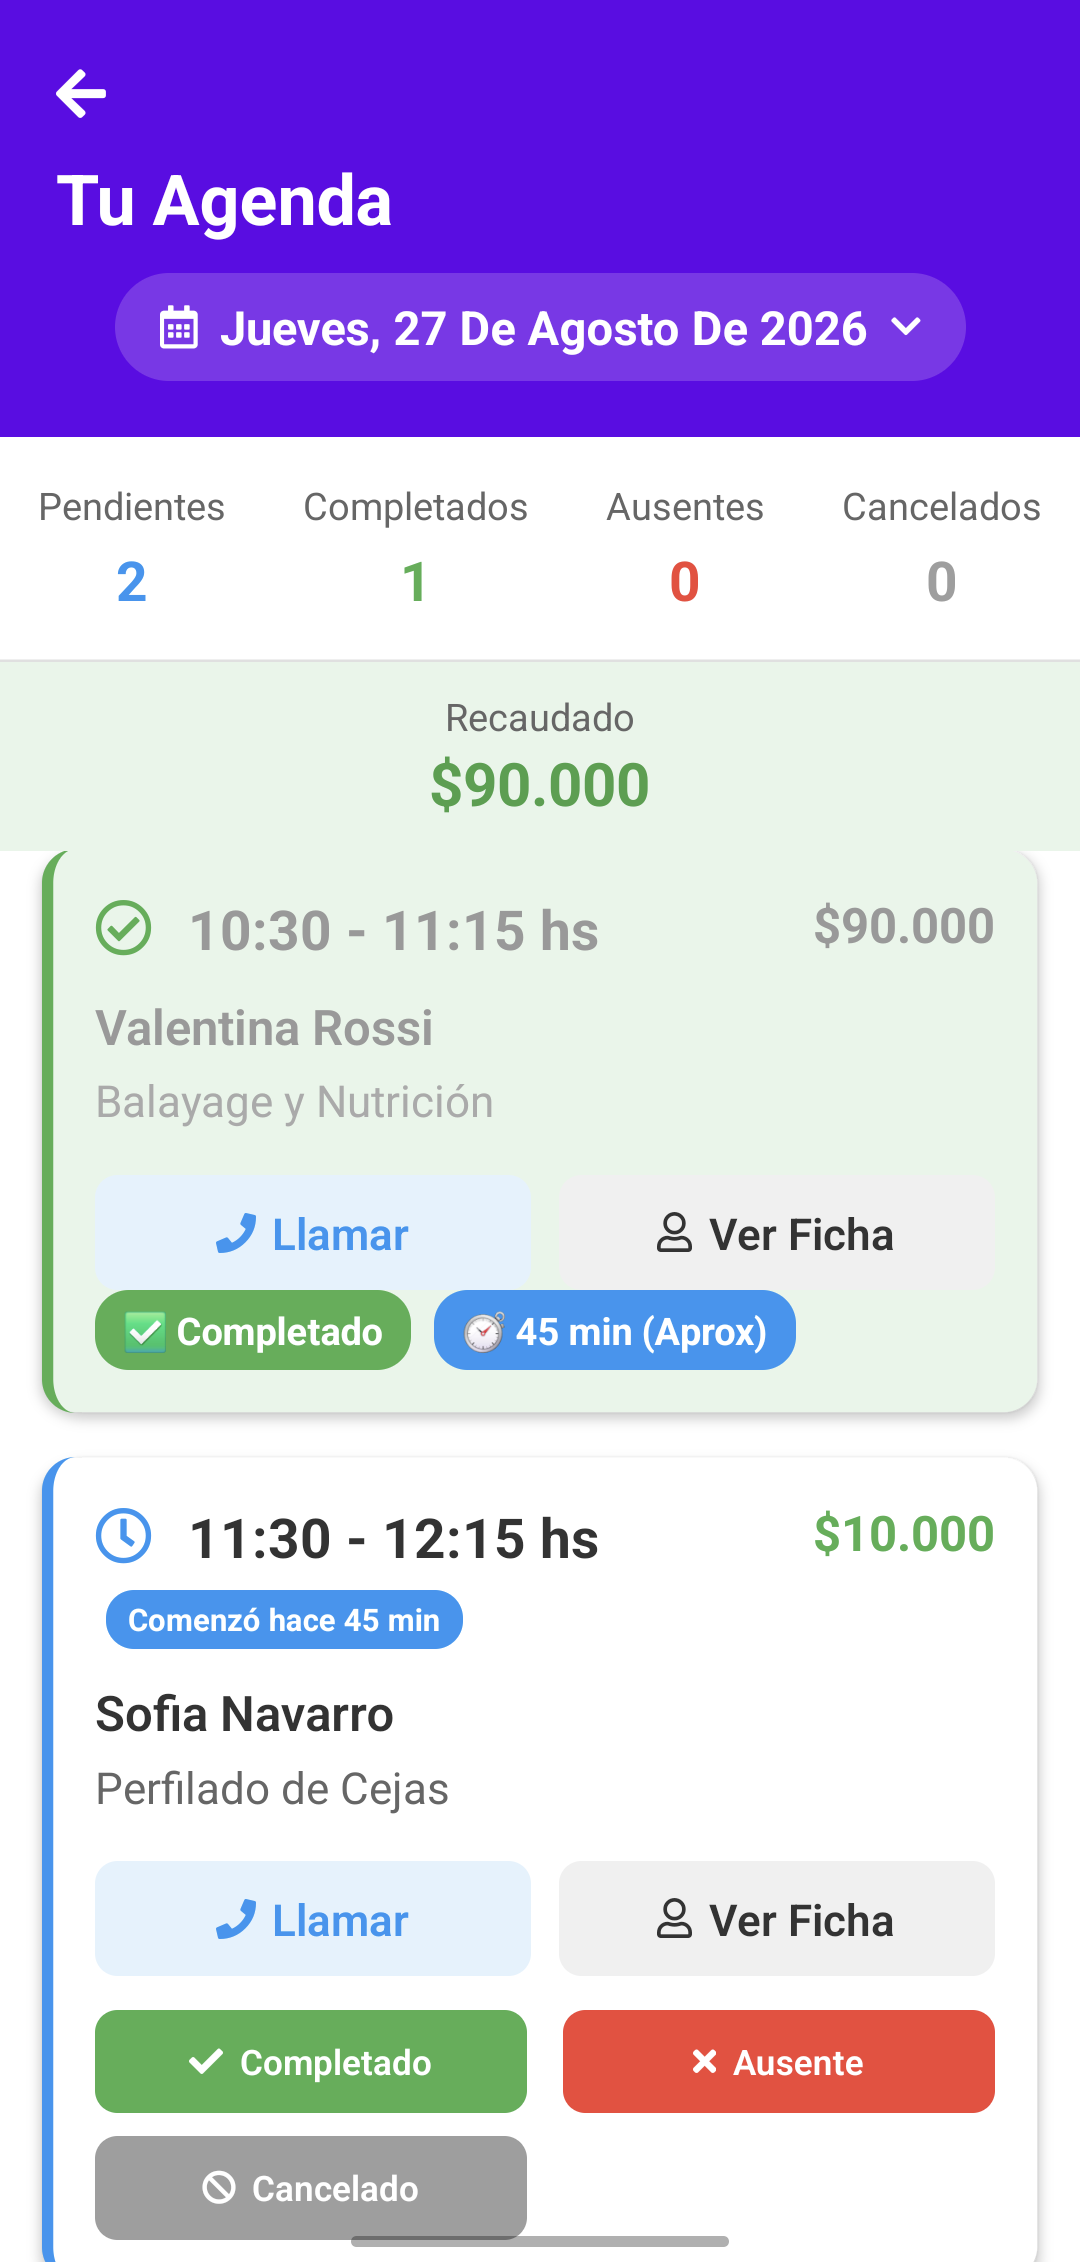
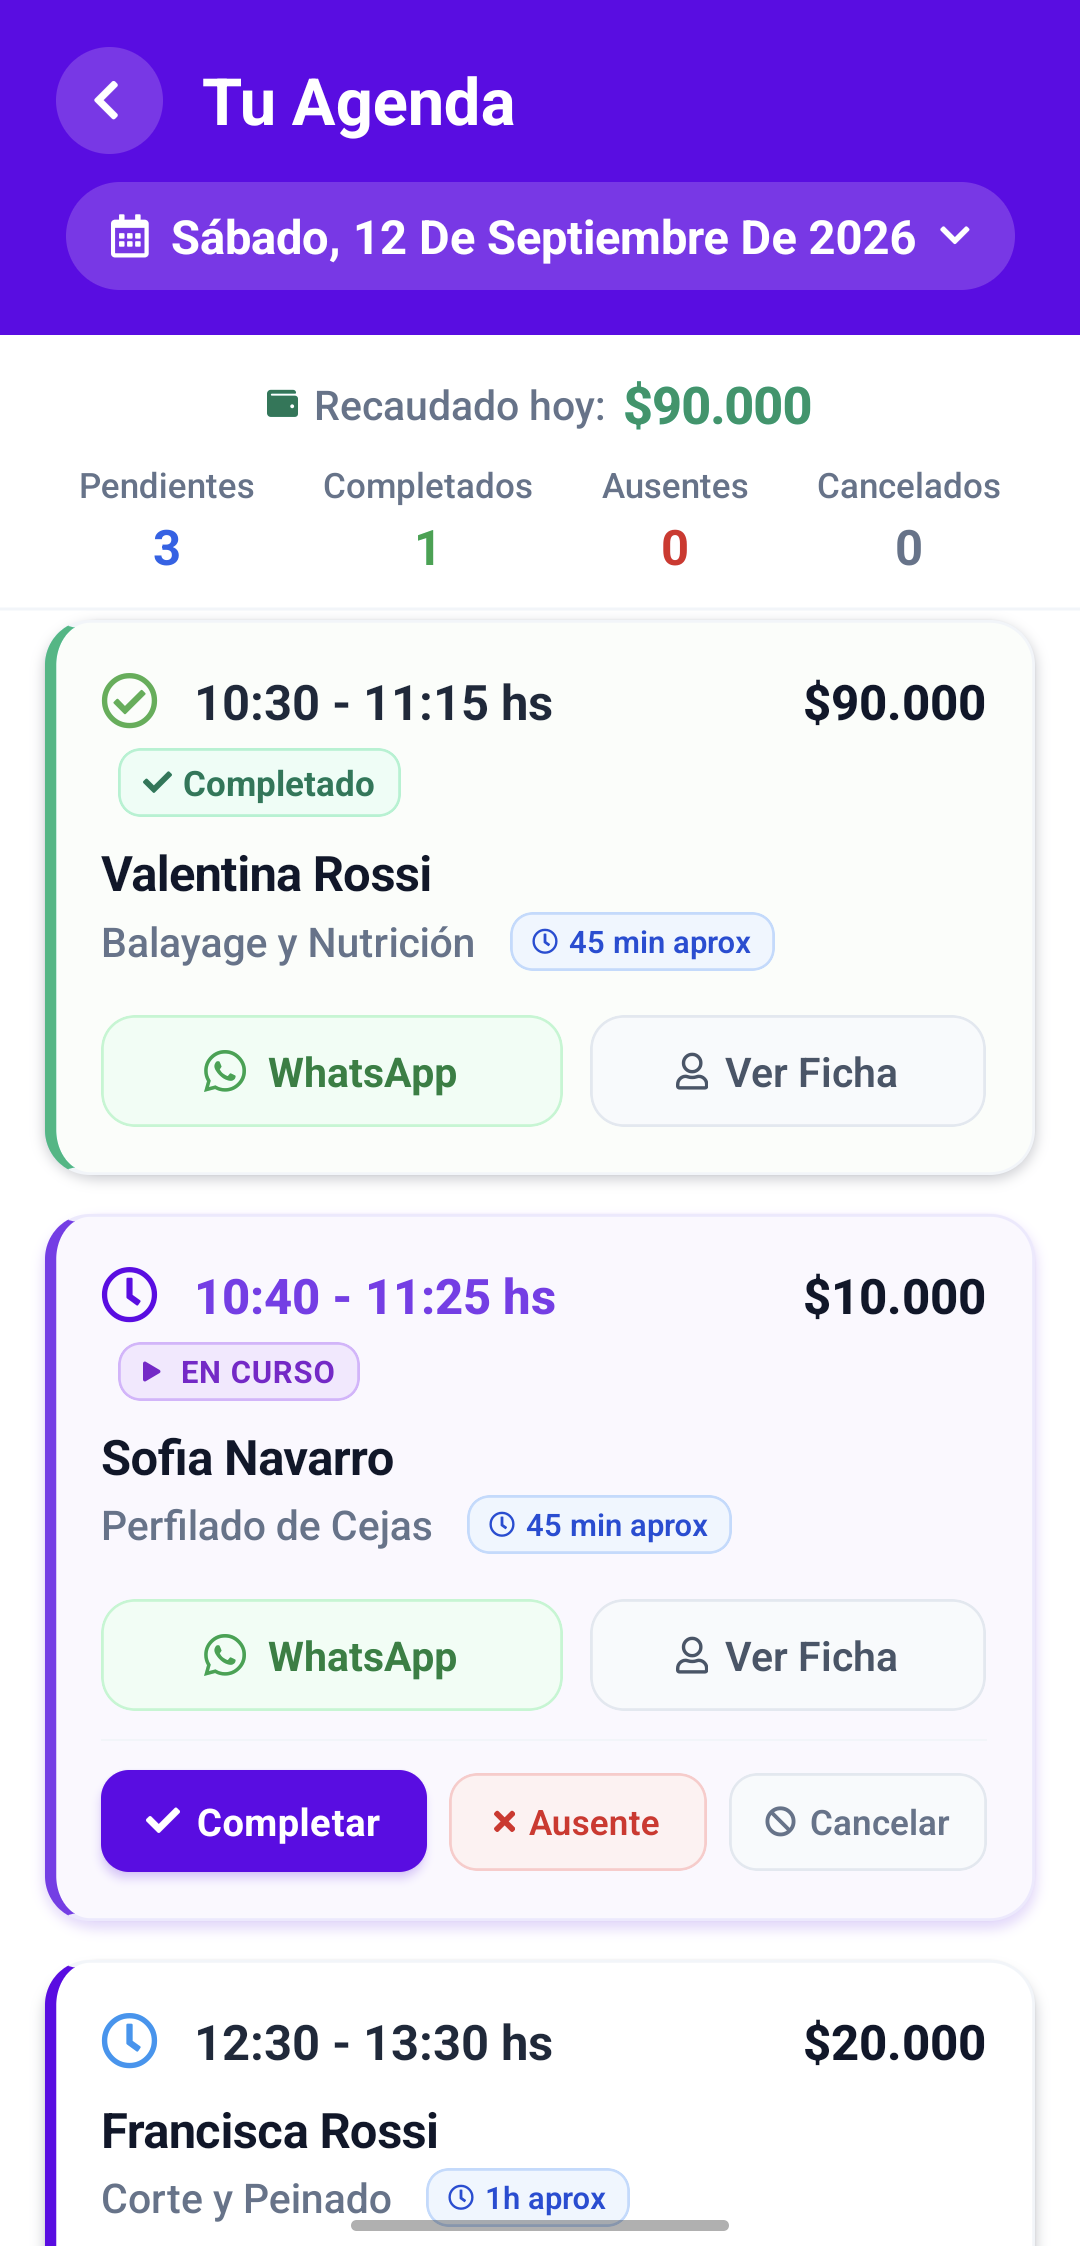
feat(ui): update VisuBook screenshots, refine hero copy and clean up UI lines

diff --git a/src/features/studies/components/CheckoutFlowDiagram.jsx b/src/features/studies/components/CheckoutFlowDiagram.jsx
@@ -107,13 +107,13 @@ const CheckoutFlowDiagram = () => {
                             <div className="relative flex items-center gap-3 group/step py-1">
                                 {/* Timeline Dot */}
                                 <div className="relative z-10 shrink-0 w-[31px] flex items-center justify-center">
-                                    <div className={`w-2.5 h-2.5 rounded-full ${step.colors.dot} ${step.colors.shadow} shadow-lg ring-[3px] ring-surface transition-all duration-300 group-hover/step:scale-125`} />
+                                    <div className={`w-2.5 h-2.5 rounded-full ${step.colors.dot} ring-[3px] ring-surface transition-all duration-300 group-hover/step:scale-125`} />
                                 </div>
 
                                 {/* Step Card */}
                                 <div className={`flex-1 flex items-center gap-3 p-2 sm:p-2.5 rounded-lg bg-surface/50 border ${step.colors.border} hover:bg-surface/80 transition-all duration-300 cursor-default`}>
-                                    <div className={`p-1.5 rounded-md bg-surface-lighter/80 shrink-0 ${step.colors.icon}`}>
-                                        <step.icon size={14} strokeWidth={2} />
+                                    <div className={`shrink-0 ${step.colors.icon} flex items-center justify-center`}>
+                                        <step.icon size={16} strokeWidth={2} />
                                     </div>
 
                                     <div className="flex-1 min-w-0">

diff --git a/src/features/hero/components/HeroTextLayer.jsx b/src/features/hero/components/HeroTextLayer.jsx
@@ -82,17 +82,6 @@ export const HeroTextLayer = ({ textVisible, textOpacity, isInteractive }) => {
                         {t('hero.cta.contact')}
                     </a>
                 </motion.div>
-
-                <motion.div variants={itemVariants} className="mt-4 pt-3 md:mt-10 md:pt-6 border-t border-text-secondary/10 flex flex-wrap justify-center md:justify-start gap-2 md:gap-3">
-                    {['React', 'Node.js', 'PostgreSQL', 'TypeScript'].map((tech) => (
-                        <span
-                            key={tech}
-                            className="px-2.5 py-1 rounded-full border border-text-secondary/15 text-text-secondary font-mono text-[10px] md:text-xs tracking-wide bg-surface-lighter/30"
-                        >
-                            {tech}
-                        </span>
-                    ))}
-                </motion.div>
             </motion.div>
         </motion.div>
     );

diff --git a/src/features/contact/components/VideoOutro.jsx b/src/features/contact/components/VideoOutro.jsx
@@ -12,7 +12,7 @@ const VideoOutro = () => {
                 if (entry.isIntersecting && !hasPlayed) {
                     setHasPlayed(true);
                     if (videoRef.current) {
-                        videoRef.current.play().catch(() => {});
+                        videoRef.current.play().catch(() => { });
                     }
                 }
             },
@@ -56,7 +56,7 @@ const VideoOutro = () => {
                     — Benjamín
                 </p>
             </div>
-            
+
             {/* Cinematic subtle glow at the bottom */}
             <div className="absolute bottom-0 left-0 w-full h-px bg-gradient-to-r from-transparent via-primary/20 to-transparent" />
         </section>

diff --git a/src/translations/es.js b/src/translations/es.js
@@ -2,7 +2,7 @@ const es = {
     // Hero
     'hero.title.line1': 'Analista de Sistemas',
     'hero.title.line2': ' & Desarrollador Full Stack.',
-    'hero.subtitle': 'Mi trabajo no es solo escribir código, sino desarmar problemas complejos. Entiendo el negocio, diseño la solución y la llevo a producción — de punta a punta.',
+    'hero.subtitle': 'Resuelvo problemas de negocio a través de software: diseño la arquitectura, desarrollo la solución y la llevo a producción — de punta a punta.',
     'hero.cta.studies': 'Ver Casos de Estudio',
     'hero.cta.contact': 'Contactar ahora',
     'hero.scroll': 'SCROLL',

diff --git a/src/translations/en.js b/src/translations/en.js
@@ -2,7 +2,7 @@ const en = {
     // Hero
     'hero.title.line1': 'Systems Analyst',
     'hero.title.line2': ' & Full Stack Developer.',
-    'hero.subtitle': "My work isn't just writing code — it's breaking down complex problems. I understand the business, design the solution, and ship it to production — end to end.",
+    'hero.subtitle': 'Solving business problems through software: I design the architecture, build the solution, and ship it to production — end to end.',
     'hero.cta.studies': 'View Case Studies',
     'hero.cta.contact': 'Get in touch',
     'hero.scroll': 'SCROLL',

diff --git a/src/core/ui/Footer.jsx b/src/core/ui/Footer.jsx
@@ -61,7 +61,7 @@ const Footer = () => {
                     </div>
                 </div>
 
-                <div className="border-t border-white/5 pt-8 flex flex-col md:flex-row items-center justify-between gap-4">
+                <div className="pt-8 flex flex-col md:flex-row items-center justify-between gap-4">
                     <div className="text-text-secondary/60 font-mono text-xs flex flex-col sm:flex-row items-center gap-2">
                         <span>© {currentYear} Benjamín Ayala.</span>
                         <span className="hidden sm:inline">|</span>
